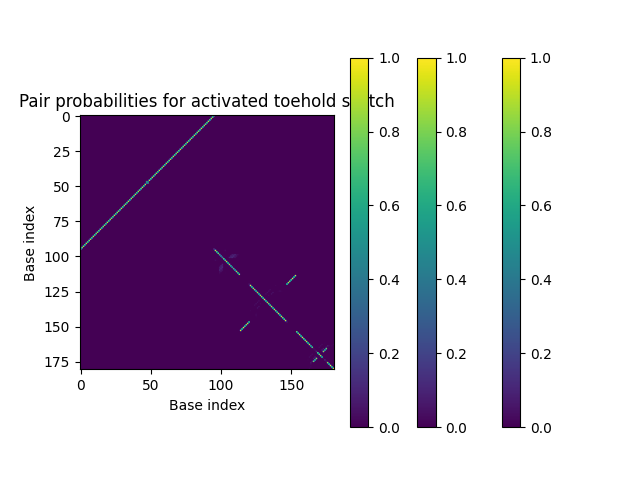
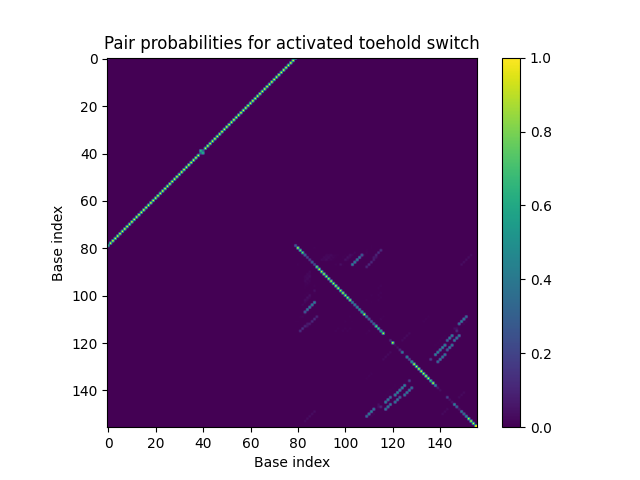
started working on other pages and displaying the output of thsGen added event handler to app.py

diff --git a/thsGen.py b/thsGen.py
@@ -577,6 +577,8 @@ def start():
 
         global bestThs
         bestThs = ToeholdSwitch(thsMFE.mfe[0], str(), str(), ths, thsExposure, [miRNA], str(), thsSamples, str())
+        global isDone
+        isDone = True
     else:
         miRNADictVals.extend(list(miRNADict.values()))
         andGateGen(miRNADictVals)
@@ -602,6 +604,16 @@ def getKey(val):
 
 # The 3 functions below are just used in jupyter lab to display the switches and graphs     
     
+def thsPlotSave():
+    thsPairs = pairs(strands=[str(bestThs.sequence)], model=thsModel)
+    plt.imshow(thsPairs.to_array())
+    plt.xlabel("Base index")
+    plt.ylabel("Base index")
+    plt.title("Pair probabilities for toehold switch")
+    plt.colorbar()
+    plt.clim(0, 1)
+    plt.savefig('ths.png')  
+
 def thsDisplay():
     print("~~~~~~~~~~~~~~~~~~~~~~~~~~~~~~~~~~~~~~~~~~~~~~~~~~~~~~~~~~~~~~~~~~~~~~~~~")
     print("toehold switch sequence and structure: ")
@@ -611,15 +623,22 @@ def thsDisplay():
     for x in bestThs.thsSamples:
         print(str(x))
     print("and an overall toehold region binding site exposure of: ", str(round(bestThs.exposure, 2)), "%")
-    print("equilibrium probability pair matrix for toehold switch: ")
-    thsPairs = pairs(strands=[str(bestThs.sequence)], model=thsModel)
-    plt.imshow(thsPairs.to_array())
+    print("equilibrium probability pair matrix for toehold switch: ")  
+    thsPlotSave()
+
+def triggerPlotSave():
+    bestThsOrderedStrands = listAddition(bestThs.strandsUsed[0:int((len(strands)-1)/2)], strands[int((len(strands)-1)/2):int(len(strands))])
+    triggerPairs = pairs(strands=bestThsOrderedStrands, model=thsModel)
+    print("equilibrium probability pair matrix for trigger complex: ")
+    plt.imshow(triggerPairs.to_array())
     plt.xlabel("Base index")
     plt.ylabel("Base index")
-    plt.title("Pair probabilities for toehold switch")
-    plt.colorbar()
+    plt.title("Pair probabilities for trigger complex MFE")
+    print("*MFE structure may not be fully representative of the trigger complex's structure, which is why Boltzmann samples are taken. If the MFE structure closely resembles the boltzmann sampled ones, it is extremely likely to form, if not it will still be possible although at lower concentrations")
+    print("*Boltzmann samples will be more reliable and representative of in vitro reactions as hundreds of samples are taken, MFE structure is only taken into account to give an approximate free energy value and equilibrium pair probability matrix")
+    # plt.colorbar()
     plt.clim(0, 1)
-    plt.savefig('ths.png')    
+    plt.savefig('trigger.png')   
 
 def triggerDisplay():
     print("~~~~~~~~~~~~~~~~~~~~~~~~~~~~~~~~~~~~~~~~~~~~~~~~~~~~~~~~~~~~~~~~~~~~~~~~~")
@@ -636,17 +655,17 @@ def triggerDisplay():
     for i, j in enumerate(bestThsOrderedStrands):
         if (i % 2 == 1):
             print(j, " is the and gate between ", getKey(bestThsOrderedStrands[i-1]), " (", bestThsOrderedStrands[i-1], ") ", " and ", getKey(bestThsOrderedStrands[i+1]), " (", bestThsOrderedStrands[i+1], ") ")
-    triggerPairs = pairs(strands=bestThsOrderedStrands, model=thsModel)
-    print("equilibrium probability pair matrix for trigger complex: ")
-    plt.imshow(triggerPairs.to_array())
+    triggerPlotSave()
+
+def complexPlotSave():
+    plt.imshow(finalComplex.pairs.to_array())
     plt.xlabel("Base index")
     plt.ylabel("Base index")
-    plt.title("Pair probabilities for trigger complex MFE")
-    print("*MFE structure may not be fully representative of the trigger complex's structure, which is why Boltzmann samples are taken. If the MFE structure closely resembles the boltzmann sampled ones, it is extremely likely to form, if not it will still be possible although at lower concentrations")
-    print("*Boltzmann samples will be more reliable and representative of in vitro reactions as hundreds of samples are taken, MFE structure is only taken into account to give an approximate free energy value and equilibrium pair probability matrix")
-    plt.colorbar()
+    plt.title("Pair probabilities for activated toehold switch")
+    # plt.colorbar()
     plt.clim(0, 1)
-    plt.savefig('trigger.png')    
+    plt.savefig('complex.png')
+
 
 def complexDisplay(): 
     print("~~~~~~~~~~~~~~~~~~~~~~~~~~~~~~~~~~~~~~~~~~~~~~~~~~~~~~~~~~~~~~~~~~~~~~~~~")
@@ -661,14 +680,7 @@ def complexDisplay():
         bindingSites += bindingSite
     print("with an activation percentage of: ", str(round(100-bindingSites.count(".")*100/len(bindingSites), 2)), "%")
     print("equilibrium probability pair matrix for activated toehold switch: ")
-    plt.imshow(finalComplex.pairs.to_array())
-    plt.xlabel("Base index")
-    plt.ylabel("Base index")
-    plt.title("Pair probabilities for activated toehold switch")
-    plt.colorbar()
-    plt.clim(0, 1)
-    plt.savefig('complex.png')
-
+    complexPlotSave()
 
 # thsDisplay()
 # triggerDisplay()

diff --git a/app.py b/app.py
@@ -4,14 +4,27 @@ kivy.require('2.2.1') # replace with your current kivy version !
 import thsGen
 from kivy.app import App
 from kivy.uix.label import Label
+from kivy.uix.image import Image
+from kivy.uix.boxlayout import BoxLayout
 from kivy.uix.textinput import TextInput
 from kivy.uix.screenmanager import Screen, ScreenManager
 from kivy.lang import Builder
 from kivy.core.window import Window
+from kivy.event import EventDispatcher
 
 kv = Builder.load_file("thsGenerator.kv")
 
-Window.size = (800,550)
+Window.size = (1200,800)
+
+class MyEventDispatcher(EventDispatcher):
+    def __init__(self, **kwargs):
+        self.register_event_type('on_thsGen')
+        super(MyEventDispatcher, self).__init__(**kwargs)
+
+    def on_thsGen(self):
+        pass
+    
+ev = MyEventDispatcher()
 
 class mainWindow(Screen):
 
@@ -20,10 +33,10 @@ class mainWindow(Screen):
 
         if len(self.children[0].children[1].children) != 12:
             self.ids.inputGrid.add_widget(Label(text='miRNA name'))
-            self.ids.inputGrid.add_widget(TextInput(multiline=False))
+            self.ids.inputGrid.add_widget(TextInput(multiline=False, font_size = 18))
 
             self.ids.inputGrid.add_widget(Label(text='miRNA sequence'))
-            self.ids.inputGrid.add_widget(TextInput(multiline=False))
+            self.ids.inputGrid.add_widget(TextInput(multiline=False, font_size = 18))
         else:
             self.ids.promptLabel.text = "The software does not support more than 3 miRNA strands"
     
@@ -34,7 +47,7 @@ class mainWindow(Screen):
         # print(self.children[0].children[1].children)
         if len(self.children[0].children[1].children) > 4:
             for i in range(0, 4):
-                self.ids.inputGrid.remove_widget(self.children[0].children[1].children[-1])
+                self.ids.inputGrid.remove_widget(self.children[0].children[1].children[0])
         else:
             self.ids.promptLabel.text = "You must input 1 or more miRNA"
 
@@ -49,6 +62,11 @@ class mainWindow(Screen):
         # print(self.children[0])
         # print(self.children[0].children)
         # print(self.children[0].children[1].children)
+
+        print(self)
+        global manager
+        manager = self.manager
+        print(manager)
 
         contents = []
         for i, child in enumerate(self.children[0].children[1].children):
@@ -70,11 +88,19 @@ class mainWindow(Screen):
                 if all(checkList):
 
                     if all(len(i) > 14 for i in miRNASequences):
+                        self.ids.submitButton.disabled = True
                         dict = {miRNANames[i]: str(miRNASequences[i]).upper() for i in range(len(contents[1:][::2]))}
                         thsGen.miRNADict = dict
                         print(thsGen.miRNADict)
-                        self.ids.promptLabel.text = "Computing..."
-                        # thsGen.start()
+                        print(thsGen.isDone)
+                        thsGen.start()
+                        thsGen.thsPlotSave()
+                        thsGen.triggerPlotSave()
+                        thsGen.complexPlotSave()
+                        print(thsGen.isDone)
+                        self.ids.promptLabel.text = "Done!"
+                        self.ids.nextButton1.disabled = False
+                        ev.dispatch("on_thsGen")
                     else:
                         self.ids.promptLabel.text = "Sorry, our software doesn't support miRNA strands shorter than 15nt"
                 else:
@@ -83,6 +109,24 @@ class mainWindow(Screen):
                 self.ids.promptLabel.text = "Multipule miRNA strands cannot share the same name or sequence"
         else:
             self.ids.promptLabel.text = "Please fill in all of the boxes"
+    
+    def received(self):
+        print("test event received")  
+        manager.get_screen("second").ids.thsGrid.add_widget(Image(source = "ths.png"))
+        thsGridText = BoxLayout(orientation = "vertical")
+        manager.get_screen("second").ids.thsGrid.add_widget(thsGridText)
+        thsGridText.add_widget(Label(text = "Toehold switch sequence and structure"))
+        thsGridText.add_widget(Label(text = thsGen.bestThs.sequence))
+        thsGridText.add_widget(Label(text = str(thsGen.bestThs.strucEnergy.structure)))
+        thsGridText.add_widget(Label(text = "With these other possible structures"))
+        for x in thsGen.bestThs.thsSamples:
+            thsGridText.add_widget(Label(text = str(x)))
+
+
+
+
+    ev.bind(on_thsGen = received)
+
 
 
 
